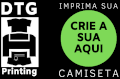
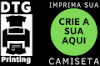
fixes v2.9.8

diff --git a/site/web/app/themes/nos/resources/assets/styles/components/_home.scss b/site/web/app/themes/nos/resources/assets/styles/components/_home.scss
@@ -70,6 +70,11 @@
     @include media(">=tablet") {
       padding: 1em 4em 1em 0.8em;
     }
+
+    .block1-down-logos {
+      padding-top: 0.4rem;
+      padding-bottom: 0.1rem;
+    }
   }
 
   .citacao {

diff --git a/site/web/app/themes/nos/resources/views/partials/home-block1.blade.php b/site/web/app/themes/nos/resources/views/partials/home-block1.blade.php
@@ -14,9 +14,9 @@
     </div>
   </div>
 
-  <div class="citacao py-5 text-1xl text-base md:text-1xl text-white bg-pureblack text-xl">
+  <div class="citacao text-1xl text-base md:text-1xl text-white bg-pureblack text-xl">
     <div class="container flex flex-col md:flex-row justify-between items-center">
-      <span>IMAGINE | CRIE | INVENTE | IMPRIMA</span>
+      <span class="text-center mb-4 md:mb-0 leading-relaxed">IMAGINE | CRIE | INVENTE | IMPRIMA</span>
       <div class="block1-down-logos">
         <a href="/design-editor/">
           <img src="@asset('images/home/dtgimprima.png')" alt="DTG imprima imagem" class="btn-dtgimprima">
